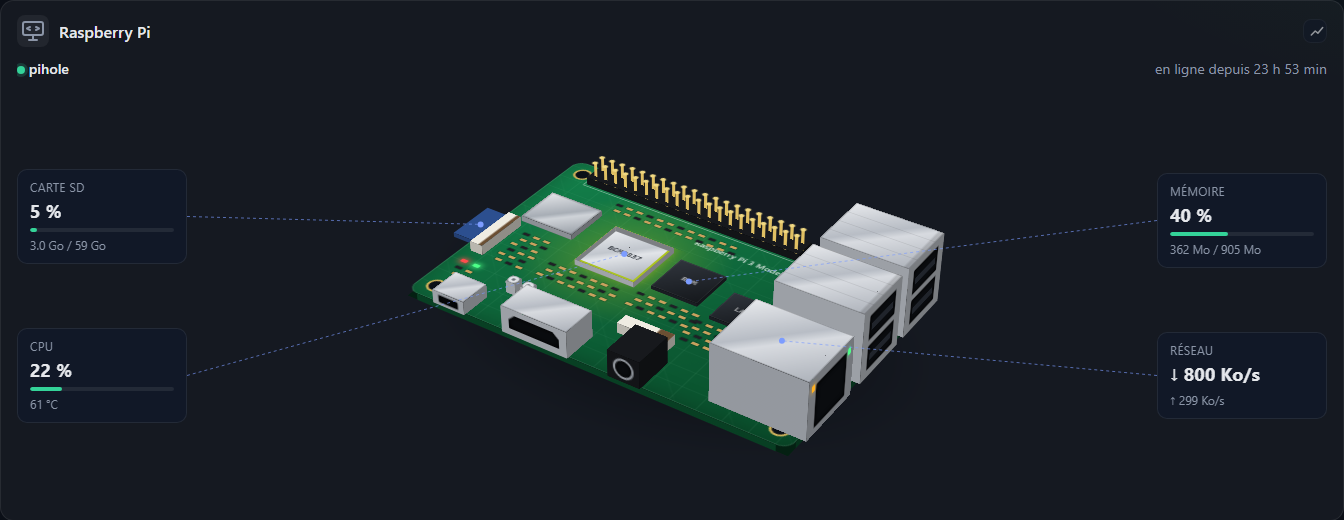
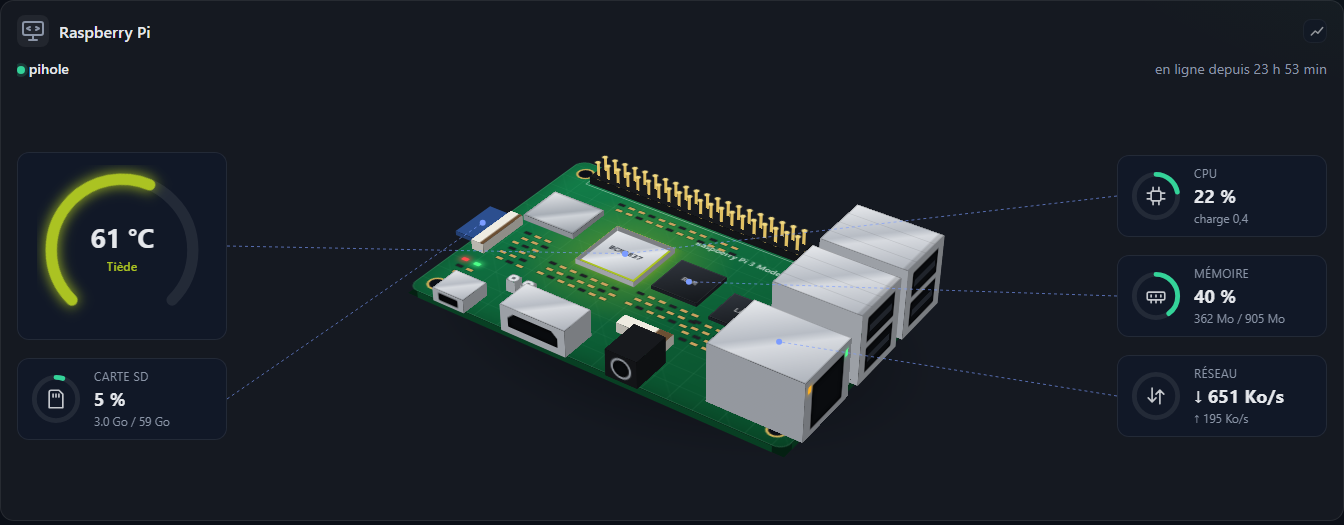
Version 0.31.0 : anneaux et jauge de température dans la vue 3D
- CPU, mémoire, carte SD et réseau dans des anneaux avec une icône
- Grande jauge de température, avec un mot selon la chaleur
- Couleurs du tableau conservées, thèmes clair et sombre

diff --git a/public/widgets/agent-3d.js b/public/widgets/agent-3d.js
@@ -90,19 +90,64 @@ function boardParts() {
   return { parts, anchors: { soc, ram, sd, eth } };
 }
 
-// Une valeur reliée à son composant.
-function boardLabel(side, key) {
+// Icônes des anneaux, sur une grille de 24.
+const BOARD_ICONS = {
+  cpu: 'M9 3v3M15 3v3M9 18v3M15 18v3M3 9h3M3 15h3M18 9h3M18 15h3M8.5 7h7A1.5 1.5 0 0 1 17 8.5v7a1.5 1.5 0 0 1-1.5 1.5h-7A1.5 1.5 0 0 1 7 15.5v-7A1.5 1.5 0 0 1 8.5 7z',
+  memory: 'M4.5 8h15A1.5 1.5 0 0 1 21 9.5v5a1.5 1.5 0 0 1-1.5 1.5h-15A1.5 1.5 0 0 1 3 14.5v-5A1.5 1.5 0 0 1 4.5 8zM7 16v3M12 16v3M17 16v3M7 11v2M12 11v2M17 11v2',
+  sd: 'M7 3h8l4 4v14H5V5a2 2 0 0 1 2-2zM9 7v3M12 7v3M15 7v3',
+  network: 'M8 4v14M4 14l4 4 4-4M16 20V6M12 10l4-4 4 4',
+};
+
+// Une valeur et son anneau, reliés à leur composant. Sans part à montrer (le réseau), l'anneau reste vide.
+function boardLabel(side, key, icon) {
   const value = h('b', {});
   const sub = h('small', { class: 'muted' });
-  const bar = h('div', { class: 'b3d-label-bar' });
+  const fill = svgEl('circle', { class: 'b3d-ring-fill', cx: '24', cy: '24', r: '20', pathLength: '100', 'stroke-dasharray': '0 100', transform: 'rotate(-90 24 24)' });
+  const ring = svgEl('svg', { class: 'b3d-ring', viewBox: '0 0 48 48', 'aria-hidden': 'true' },
+    svgEl('circle', { class: 'b3d-ring-track', cx: '24', cy: '24', r: '20' }),
+    fill,
+    svgEl('path', { class: 'b3d-ring-icon', d: BOARD_ICONS[icon], transform: 'translate(13.2 13.2) scale(0.9)' }));
   const el = h('div', { class: `b3d-label b3d-${side}` },
-    h('span', { class: 'muted' }, key), value, bar, sub);
+    ring, h('div', { class: 'b3d-label-text' }, h('span', { class: 'muted' }, key), value, sub));
   return {
     el,
     set(text, detail, ratio) {
       value.textContent = text;
       sub.textContent = detail || '';
-      bar.replaceChildren(...(ratio == null ? [] : [progressBar(ratio, levelOf(ratio))]));
+      fill.setAttribute('stroke-dasharray', `${ratio == null ? 0 : Math.min(100, ratio * 100).toFixed(1)} 100`);
+      fill.setAttribute('class', `b3d-ring-fill ${ratio == null ? 'b3d-ring-empty' : levelOf(ratio)}`);
+    },
+  };
+}
+
+// Grande jauge de température : un arc de 270°, de GAUGE_MIN à GAUGE_MAX °C.
+const GAUGE_MIN = 20;
+const GAUGE_MAX = 90;
+const GAUGE_ARC = 75; // part du cercle occupée par l'arc
+
+function tempWord(temp) {
+  if (temp < 60) return t('agent3d.cool');
+  if (temp < 75) return t('agent3d.warm');
+  return temp < 85 ? t('agent3d.hot') : t('agent3d.burning');
+}
+
+function boardGauge(side) {
+  const arc = (cls, length) => svgEl('circle', {
+    class: cls, cx: '60', cy: '60', r: '50', pathLength: '100', 'stroke-dasharray': `${length} 100`, transform: 'rotate(135 60 60)',
+  });
+  const fill = arc('b3d-gauge-fill', 0);
+  const value = h('b', {});
+  const word = h('small', {});
+  const el = h('div', { class: `b3d-label b3d-gauge b3d-${side}`, title: t('agent3d.temp') },
+    svgEl('svg', { viewBox: '0 0 120 120', 'aria-hidden': 'true' }, arc('b3d-gauge-track', GAUGE_ARC), fill),
+    h('div', { class: 'b3d-gauge-text' }, value, word));
+  return {
+    el,
+    set(temp) {
+      value.textContent = temp == null ? '–' : `${temp} °C`;
+      word.textContent = temp == null ? t('agent3d.temp') : tempWord(temp);
+      const ratio = temp == null ? 0 : Math.min(1, Math.max(0, (temp - GAUGE_MIN) / (GAUGE_MAX - GAUGE_MIN)));
+      fill.setAttribute('stroke-dasharray', `${(ratio * GAUGE_ARC).toFixed(1)} 100`);
     },
   };
 }
@@ -111,12 +156,15 @@ function createBoard() {
   const { parts, anchors } = boardParts();
   const scene = h('div', { class: 'b3d-scene' }, parts);
   const lines = svgEl('svg', { class: 'b3d-lines', 'aria-hidden': 'true' });
+  const gauge = boardGauge('left');
   const labels = {
-    soc: boardLabel('left', t('stat.cpu')),
-    ram: boardLabel('right', t('stat.memory')),
-    eth: boardLabel('right', t('history.network')),
-    sd: boardLabel('left', t('agent3d.sd')),
+    temp: gauge,
+    sd: boardLabel('left', t('agent3d.sd'), 'sd'),
+    soc: boardLabel('right', t('stat.cpu'), 'cpu'),
+    ram: boardLabel('right', t('stat.memory'), 'memory'),
+    eth: boardLabel('right', t('history.network'), 'network'),
   };
+  const targets = { ...anchors, temp: anchors.soc };
   const wires = Object.fromEntries(Object.keys(labels).map((k) => {
     const line = svgEl('line', { class: 'b3d-wire' });
     const dot = svgEl('circle', { class: 'b3d-dot', r: '3' });
@@ -125,9 +173,9 @@ function createBoard() {
   }));
   const stage = h('div', { class: 'b3d-stage', role: 'img', title: t('agent3d.hint') }, h('div', { class: 'b3d-view' }, scene));
   const root = h('div', { class: 'b3d-root' },
-    h('div', { class: 'b3d-labels' }, labels.sd.el, labels.soc.el),
+    h('div', { class: 'b3d-labels b3d-labels-left' }, labels.temp.el, labels.sd.el),
     stage,
-    h('div', { class: 'b3d-labels' }, labels.ram.el, labels.eth.el),
+    h('div', { class: 'b3d-labels' }, labels.soc.el, labels.ram.el, labels.eth.el),
     lines);
 
   const reduced = matchMedia('(prefers-reduced-motion: reduce)').matches;
@@ -140,7 +188,7 @@ function createBoard() {
     const box = root.getBoundingClientRect();
     lines.setAttribute('viewBox', `0 0 ${box.width} ${box.height}`);
     for (const [key, { line, dot }] of Object.entries(wires)) {
-      const a = (anchors[key].querySelector('.b3d-anchor') || anchors[key].querySelector('.b3d-top')).getBoundingClientRect();
+      const a = (targets[key].querySelector('.b3d-anchor') || targets[key].querySelector('.b3d-top')).getBoundingClientRect();
       const l = labels[key].el.getBoundingClientRect();
       const left = labels[key].el.classList.contains('b3d-left');
       const x1 = (left ? l.right : l.left) - box.left;
@@ -156,7 +204,7 @@ function createBoard() {
   const applyLayout = () => {
     const width = root.clientWidth;
     root.classList.toggle('b3d-wide', width >= WIDE_STAGE_PX);
-    const room = root.classList.contains('b3d-wide') ? width - 2 * 190 : width;
+    const room = root.classList.contains('b3d-wide') ? width - 2 * 230 : width;
     scene.style.setProperty('--b3d-scale', Math.min(1.3, room / 470).toFixed(3));
   };
 
@@ -209,7 +257,8 @@ function createBoard() {
       root.style.setProperty('--b3d-act', `${(1.8 - Math.min(100, d.cpu ?? 0) * 0.016).toFixed(2)}s`);
       const flow = (d.rate?.rx ?? 0) + (d.rate?.tx ?? 0);
       root.style.setProperty('--b3d-net', `${flow > 1e6 ? 0.2 : flow > 1e4 ? 0.6 : 1.6}s`);
-      labels.soc.set(d.cpu == null ? '–' : `${Math.round(d.cpu)} %`, temp == null ? '' : `${temp} °C`, d.cpu == null ? null : d.cpu / 100);
+      gauge.set(temp);
+      labels.soc.set(d.cpu == null ? '–' : `${Math.round(d.cpu)} %`, d.load ? t('agent3d.load', { load: d.load.min1.toLocaleString(LOCALE, { maximumFractionDigits: 2 }) }) : '', d.cpu == null ? null : d.cpu / 100);
       labels.ram.set(d.mem ? `${Math.round((d.mem.used / d.mem.total) * 100)} %` : '–', d.mem ? `${fmtBytes(d.mem.used)} / ${fmtBytes(d.mem.total)}` : '', d.mem ? d.mem.used / d.mem.total : null);
       const disk = d.disks?.[0];
       labels.sd.set(disk ? `${Math.round((disk.used / disk.size) * 100)} %` : '–', disk ? `${fmtBytes(disk.used)} / ${fmtBytes(disk.size)}` : '', disk ? disk.used / disk.size : null);

diff --git a/public/style.css b/public/style.css
@@ -788,14 +788,33 @@ body:not(.editing) .stat:focus-visible { outline: 2px solid var(--accent); outli
 
 /* Vue 3D du widget Agent : maquette de Raspberry Pi en CSS 3D */
 .b3d-root { position: relative; display: grid; gap: 12px; margin-top: 8px; --b3d-heat: 0; --b3d-soc: #c8ccd2; --b3d-act: 1.6s; --b3d-net: 1.6s; }
-.b3d-root.b3d-wide { grid-template-columns: 170px minmax(0, 1fr) 170px; align-items: center; }
+.b3d-root.b3d-wide { grid-template-columns: 210px minmax(0, 1fr) 210px; align-items: center; }
 .b3d-labels { display: grid; gap: 12px; grid-template-columns: 1fr 1fr; }
-.b3d-wide .b3d-labels { grid-template-columns: 1fr; gap: 64px; position: relative; z-index: 1; }
-.b3d-label { display: grid; gap: 3px; padding: 10px 12px; border-radius: 10px; background: var(--bg-2); border: 1px solid var(--border); }
+.b3d-labels-left { grid-template-columns: 1fr; }
+.b3d-wide .b3d-labels { grid-template-columns: 1fr; gap: 18px; position: relative; z-index: 1; }
+.b3d-label { display: grid; grid-template-columns: 52px minmax(0, 1fr); align-items: center; gap: 12px; padding: 10px 12px; border-radius: 12px; background: var(--bg-2); border: 1px solid var(--border); }
+.b3d-label-text { display: grid; gap: 2px; min-width: 0; }
 .b3d-label span { font-size: 0.72rem; text-transform: uppercase; letter-spacing: 0.05em; }
 .b3d-label b { font-size: 1.15rem; font-variant-numeric: tabular-nums; white-space: nowrap; }
 .b3d-label small { font-size: 0.74rem; min-height: 1em; white-space: nowrap; overflow: hidden; text-overflow: ellipsis; }
-.b3d-label-bar .bar { margin: 2px 0; }
+.b3d-ring { width: 52px; height: 52px; display: block; }
+.b3d-ring-track, .b3d-gauge-track { fill: none; stroke: var(--track); }
+.b3d-ring-track, .b3d-ring-fill { stroke-width: 4.5; }
+.b3d-ring-fill { fill: none; stroke: var(--ok); stroke-linecap: round; transition: stroke-dasharray 0.6s ease; }
+.b3d-ring-fill.warn { stroke: var(--warn); }
+.b3d-ring-fill.bad { stroke: var(--bad); }
+.b3d-ring-icon { fill: none; stroke: var(--text); stroke-width: 1.7; stroke-linecap: round; stroke-linejoin: round; opacity: 0.85; }
+.b3d-gauge { display: block; position: relative; padding: 12px 18px 4px; }
+.b3d-gauge svg { display: block; width: 100%; max-width: 170px; margin: 0 auto; }
+.b3d-gauge-track, .b3d-gauge-fill { stroke-width: 8; stroke-linecap: round; }
+.b3d-gauge-fill { fill: none; stroke: var(--b3d-soc); transition: stroke-dasharray 0.8s ease, stroke 0.8s ease; filter: drop-shadow(0 0 5px var(--b3d-soc)); }
+.b3d-gauge-text { position: absolute; inset: 0; display: flex; flex-direction: column; align-items: center; justify-content: center; gap: 3px; pointer-events: none; }
+.b3d-gauge-text b { font-size: 1.7rem; letter-spacing: -0.02em; }
+.b3d-gauge-text small { font-size: 0.78rem; font-weight: 600; color: var(--b3d-soc); min-height: 0; }
+@media (prefers-reduced-motion: reduce) { .b3d-ring-fill, .b3d-gauge-fill { transition: none; } }
+.b3d-root:not(.b3d-wide) .b3d-labels .b3d-label:last-child:nth-child(odd) { grid-column: 1 / -1; }
+.b3d-offline .b3d-gauge-fill, .b3d-offline .b3d-ring-fill { stroke: var(--muted); filter: none; }
+.b3d-offline .b3d-gauge-text small { color: var(--muted); }
 .b3d-stage { position: relative; height: 420px; cursor: grab; touch-action: pan-y; overflow: visible; user-select: none; }
 .b3d-stage.b3d-grabbing { cursor: grabbing; }
 .b3d-view { position: absolute; inset: 0; perspective: 1400px; display: grid; place-items: center; }
@@ -859,3 +878,4 @@ body:not(.editing) .stat:focus-visible { outline: 2px solid var(--accent); outli
 .b3d-dot { fill: var(--accent); }
 .b3d-anchor { position: absolute; left: 10px; top: 50%; width: 1px; height: 1px; }
 .b3d-root:not(.b3d-wide) .b3d-stage { height: 220px; }
+.b3d-ring-empty { display: none; }

diff --git a/public/i18n.js b/public/i18n.js
@@ -680,6 +680,12 @@ const I18N = {
     'agent.copy': 'Copier',
     'agent3d.option': 'Vue 3D (maquette de Raspberry Pi)',
     'agent3d.sd': 'Carte SD',
+    'agent3d.temp': 'Température',
+    'agent3d.cool': 'Au frais',
+    'agent3d.warm': 'Tiède',
+    'agent3d.hot': 'Chaud',
+    'agent3d.burning': 'Brûlant',
+    'agent3d.load': 'charge {load}',
     'agent3d.hint': 'Glisse pour faire tourner la carte',
     'agent3d.noNet': 'Pas encore de mesure',
     'agent3d.summary': 'Maquette 3D de {name} : CPU à {cpu} %, {temp} °C',
@@ -1565,6 +1571,12 @@ const I18N = {
     'agent.copy': 'Copy',
     'agent3d.option': '3D view (Raspberry Pi model)',
     'agent3d.sd': 'SD card',
+    'agent3d.temp': 'Temperature',
+    'agent3d.cool': 'Cool',
+    'agent3d.warm': 'Warm',
+    'agent3d.hot': 'Hot',
+    'agent3d.burning': 'Very hot',
+    'agent3d.load': 'load {load}',
     'agent3d.hint': 'Drag to rotate the board',
     'agent3d.noNet': 'No measurement yet',
     'agent3d.summary': '3D model of {name}: CPU at {cpu} %, {temp} °C',

diff --git a/CHANGELOG.md b/CHANGELOG.md
@@ -4,6 +4,14 @@ Toutes les évolutions notables du projet. Format inspiré de [Keep a Changelog]
 
 ## [Non publié]
 
+## [0.31.0] - 2026-11-07
+
+### Ajouté
+- Vue 3D : grande jauge de température, avec un mot selon la chaleur (au frais, tiède, chaud, brûlant).
+
+### Modifié
+- Vue 3D : le CPU, la mémoire, la carte SD et le réseau s'affichent dans des anneaux avec une icône, à la place des barres. Les couleurs restent celles du tableau.
+
 ## [0.30.1] - 2026-11-07
 
 ### Modifié
@@ -360,7 +368,8 @@ Première version publique.
 - Sessions invalidées à la déconnexion et au changement de mot de passe.
 - Mot de passe admin lu depuis `.env` (Docker) ou `/etc/server-dashboard/server-dashboard.env` (systemd), jamais dans le dépôt.
 
-[Non publié]: https://github.com/Circule-studio/server-dashboard/compare/v0.30.1...HEAD
+[Non publié]: https://github.com/Circule-studio/server-dashboard/compare/v0.31.0...HEAD
+[0.31.0]: https://github.com/Circule-studio/server-dashboard/compare/v0.30.1...v0.31.0
 [0.30.1]: https://github.com/Circule-studio/server-dashboard/compare/v0.30.0...v0.30.1
 [0.30.0]: https://github.com/Circule-studio/server-dashboard/compare/v0.29.1...v0.30.0
 [0.29.1]: https://github.com/Circule-studio/server-dashboard/compare/v0.29.0...v0.29.1
